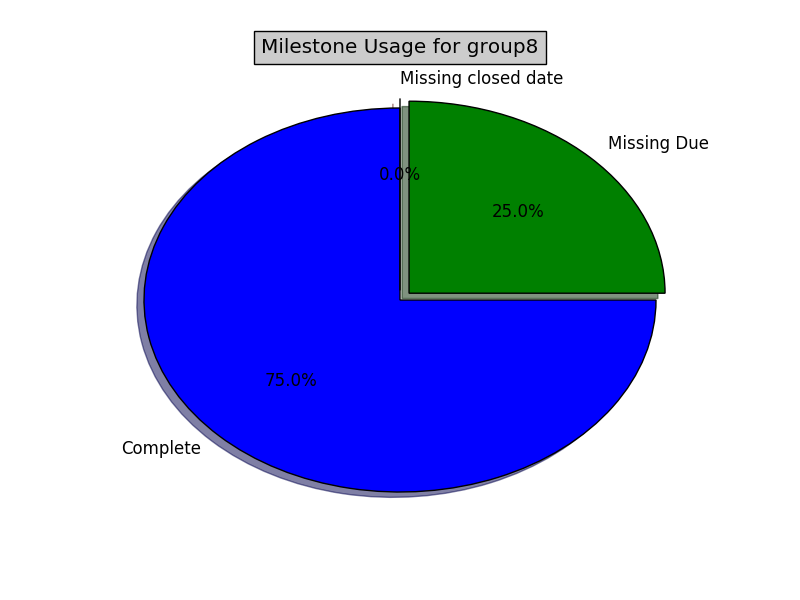
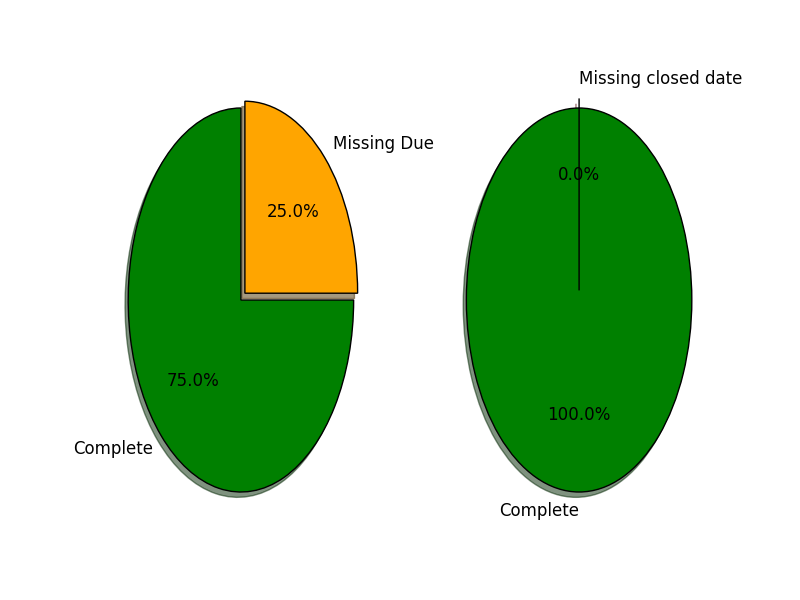
split pie chart of milestone usage

diff --git a/BadSmell/results/milestone_time/milestone_time.py b/BadSmell/results/milestone_time/milestone_time.py
@@ -87,10 +87,10 @@ def plot_milestone_time(): # also check the milestone usage
         closed_days = map(time_interval, list(np.subtract(closed_times, create_times)))
 
         #wo_due = sum([True if (term>-1 and term<1) else False for term in due_days]) # without due date
-        wo_due = sum([True if (term==0) else False for term in due_days])  # without due date
+        wo_due = sum([True if (term<1 and term>-1) else False for term in due_days])  # without due date
         wo_due_percentage = float(wo_due) / float(size)
         #wo_close = sum([True if (term>-1 and term<1) else False for term in closed_days]) # without closed date
-        wo_close = sum([True if (term==0) else False for term in closed_days])  # without closed date
+        wo_close = sum([True if (term<1 and term>-1) else False for term in closed_days])  # without closed date
         wo_close_percentage = float(wo_close) / float(size)
         group_milestone_usage[gp] = [size, wo_due, wo_close, wo_due_percentage, wo_close_percentage]
 
@@ -113,13 +113,22 @@ def plot_milestone_time(): # also check the milestone usage
             term = [group_milestone_usage[gp][i] for i in range(len(group_milestone_usage[gp]))]
             term.insert(0, gp)
             cw.writerow(term)
-            fig = plt.figure(1, figsize=(6,6))
-            ax = plt.axes([0.1, 0.1, 0.8, 0.8])
-            labels = ['Complete','Missing Due', 'Missing closed date']
-            fracs = [(term[1]-term[2]-term[3]), term[2], term[3]]
-            explode = [0.0, 0.05, 0.05]
-            plt.pie(fracs, explode=explode, labels=labels, autopct='%1.1f%%', shadow=True, startangle=90)
-            plt.title('Milestone Usage for '+gp, bbox={'facecolor': '0.8', 'pad': 5})
+            fig = plt.figure(1, figsize=(3,6))
+            ax = plt.axes([0.1, 0.1, 0.1, 0.1])
+            plt.title('Milestone Usage for ' + gp, bbox={'facecolor': '0.8', 'pad': 5})
+            plt.subplot(1,2,1)
+            labels = ['Complete','Missing Due']
+            fracs = [(term[1]-term[2]), term[2]]
+            explode = [0.0, 0.05]
+            colors = ['green', 'orange']
+            plt.pie(fracs, explode=explode, labels=labels, autopct='%1.1f%%', shadow=True, startangle=90, colors=colors,)
+            plt.subplot(1,2,2)
+            labels = ['Complete', 'Missing closed date']
+            fracs = [(term[1] - term[3]), term[3]]
+            explode = [0.0, 0.05]
+            colors = ['green', 'red']
+            plt.pie(fracs, explode=explode, labels=labels, autopct='%1.1f%%', shadow=True, startangle=90, colors=colors,)
+            #plt.title('Milestone Usage for '+gp, bbox={'facecolor': '0.8', 'pad': 5})
             fig.savefig(resultdir+gp+'-milestone-usage.png')
             fig.clear()
 
